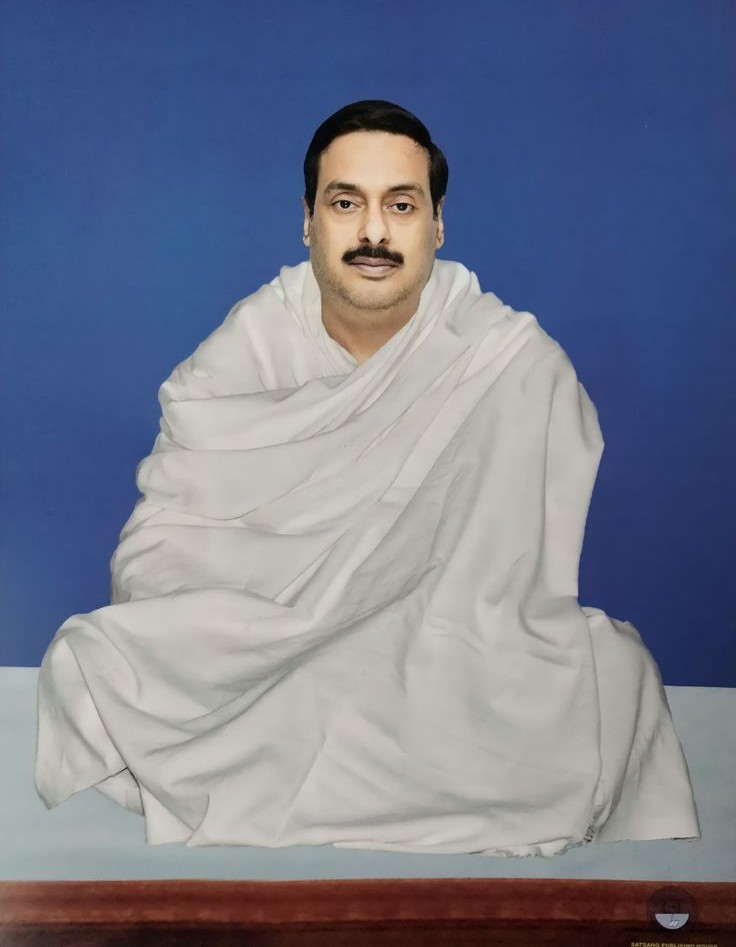
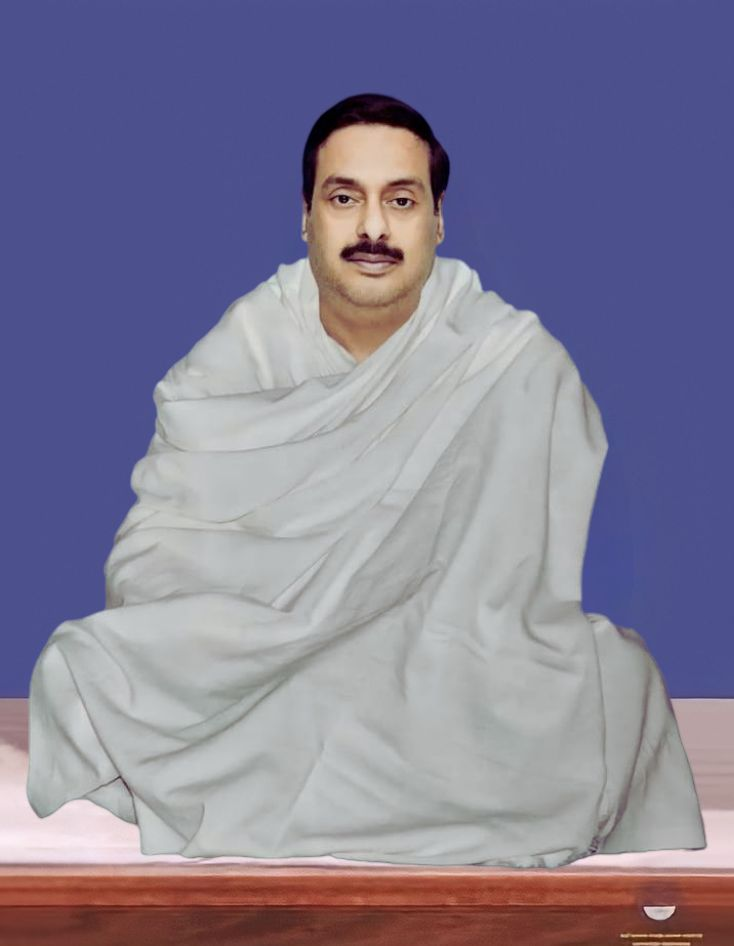
Add files via upload

diff --git a/index.html b/index.html
@@ -64,21 +64,21 @@
     </header>
 
     <main>
-        <section class="py-16 bg-white dark:bg-white text-black text-center pt-24"> <div class="container mx-auto px-4 hidden lg:grid grid-cols-1 sm:grid-cols-2 lg:grid-cols-4 gap-8">
-                <div class="flex flex-col items-center p-4">
-                    <img src="sri sri borda.jpg" alt="Sree Sree Borda" class="w-48 h-auto object-cover mb-4" loading="lazy">
+        <section class="py-16 bg-white dark:bg-white text-black text-center pt-24"> <div class="container mx-auto px-4 hidden lg:grid grid-cols-1 sm:grid-cols-2 lg:grid-cols-4 gap-2">
+                <div class="flex flex-col items-center ">
+                    <img src="sri sri borda.jpg" alt="Sree Sree Borda" class="w-48 h-75 object-cover mb-4" loading="lazy">
                     <p class="text-xl font-semibold font-exo">Sree Sree Borda</p>
                 </div>
-                <div class="flex flex-col items-center p-4">
-                    <img src="images.jpg" alt="Sree Sree Thakur Anukulchandra" class="w-48 h-auto object-cover mb-4" loading="lazy">
+                <div class="flex flex-col items-center ">
+                    <img src="sri sri thakur.jpg" alt="Sree Sree Thakur Anukulchandra" class="w-55 h-72 object-cover mb-4" loading="lazy">
                     <p class="text-xl font-semibold font-exo">Sree Sree Thakur Anukulchandra</p>
                 </div>
-                <div class="flex flex-col items-center p-4">
-                    <img src="Sri Sri Boroma.jpg" alt="Sree Sree Boroma" class="w-48 h-auto object-cover mb-4" loading="lazy">
+                <div class="flex flex-col items-center ">
+                    <img src="Sri Sri Boroma.jpg" alt="Sree Sree Boroma" class="w-55 h-72 object-cover mb-4" loading="lazy">
                     <p class="text-xl font-semibold font-exo">Sree Sree Boroma</p>
                 </div>
-                <div class="flex flex-col items-center p-4">
-                    <img src="sri sri acharyadev.jpg" alt="Sree Sree Acharyadev" class="w-48 h-auto object-cover mb-4" loading="lazy">
+                <div class="flex flex-col items-center ">
+                    <img src="sri sri acharyadev.jpg" alt="Sree Sree Acharyadev" class="w-48 h-75 object-cover mb-4" loading="lazy">
                     <p class="text-xl font-semibold font-exo">Sree Sree Acharyadev</p>
                 </div>
             </div>
@@ -86,7 +86,7 @@
             <div class="relative w-full overflow-hidden lg:hidden">
                 <div id="personalities-slideshow" class="flex transition-transform duration-500 ease-in-out">
                     <div class="w-full flex-shrink-0 flex flex-col items-center p-4">
-                        <img src="images.jpg" alt="Sree Sree Thakur Anukulchandra" class="w-48 h-auto object-cover mb-4" loading="lazy">
+                        <img src="sri sri thakur.jpg" alt="Sree Sree Thakur Anukulchandra" class="w-48 h-auto object-cover mb-4" loading="lazy">
                         <p class="text-xl font-semibold font-exo">Sree Sree Thakur Anukulchandra</p>
                     </div>
                     <div class="w-full flex-shrink-0 flex flex-col items-center p-4">
@@ -103,11 +103,11 @@
                     </div>
                 </div>
 
-                <div id="personalities-dots" class="absolute bottom-1 left-1/3 -translate-x-1/2 flex space-x-5">
+                <div id="personalities-dots" class="absolute bottom-1 left-1/3 -translate-x-1/3 flex space-x-8">
                     </div>
             </div>
 
-            <h3 class="text-3xl md:text-4xl font-bold font-cambria mt-12 text-orange-700">SATSANG VIHAR GORAKHPUR</h3>
+            <h3 class="text-3xl md:text-4xl font-bold font-cambria mt-16 text-orange-700">SATSANG VIHAR GORAKHPUR</h3>
         </section>
 
         <section class="relative h-64 flex items-center justify-center text-center bg-white dark:bg-white text-black"> <div class="relative z-10 p-6 rounded-lg max-w-4xl mx-auto">
@@ -122,7 +122,7 @@
             <div class="container mx-auto px-4">
                 <h2 class="text-4xl md:text-5xl font-bold text-center text-orange-700 dark:text-orange-300 mb-12 font-cambria">About Us</h2>
                 <div class="flex flex-col md:flex-row items-center justify-center gap-12">
-                    <div class="md:w-2/5 flex justify-center"> <img src="Satsang Vihar Gorakhpur gate.jpg" alt="Satsang Vihar Gorakhpur Gate" class="rounded-3xl shadow-2xl max-w-full h-auto max-h-96 transform hover:scale-105 transition-transform duration-500" style="box-shadow: 0 0 50px rgba(121, 208, 235, 0.7), 0 0 100px rgba(121, 208, 235, 0.5);" loading="lazy">
+                    <div class="md:w-2/5 flex justify-center"> <img src="Satsang Vihar Gorakhpur gate.jpg" alt="Satsang Vihar Gorakhpur Gate" class="rounded-3xl shadow-2xl w-3/4 h-auto max-h-86 transform hover:scale-105 transition-transform duration-500" style="box-shadow: 0 0 50px rgba(121, 208, 235, 0.7), 0 0 100px rgba(121, 208, 235, 0.5);" loading="lazy">
                     </div>
                     <div class="md:w-3/5 text-center md:text-right"> <p class="text-lg md:text-xl leading-relaxed text-gray-800 dark:text-gray-200 font-exo">
                             <b>Satsang Vihar Gorakhpur</b> is a religious organization which is promoting Dharm, which upholds
